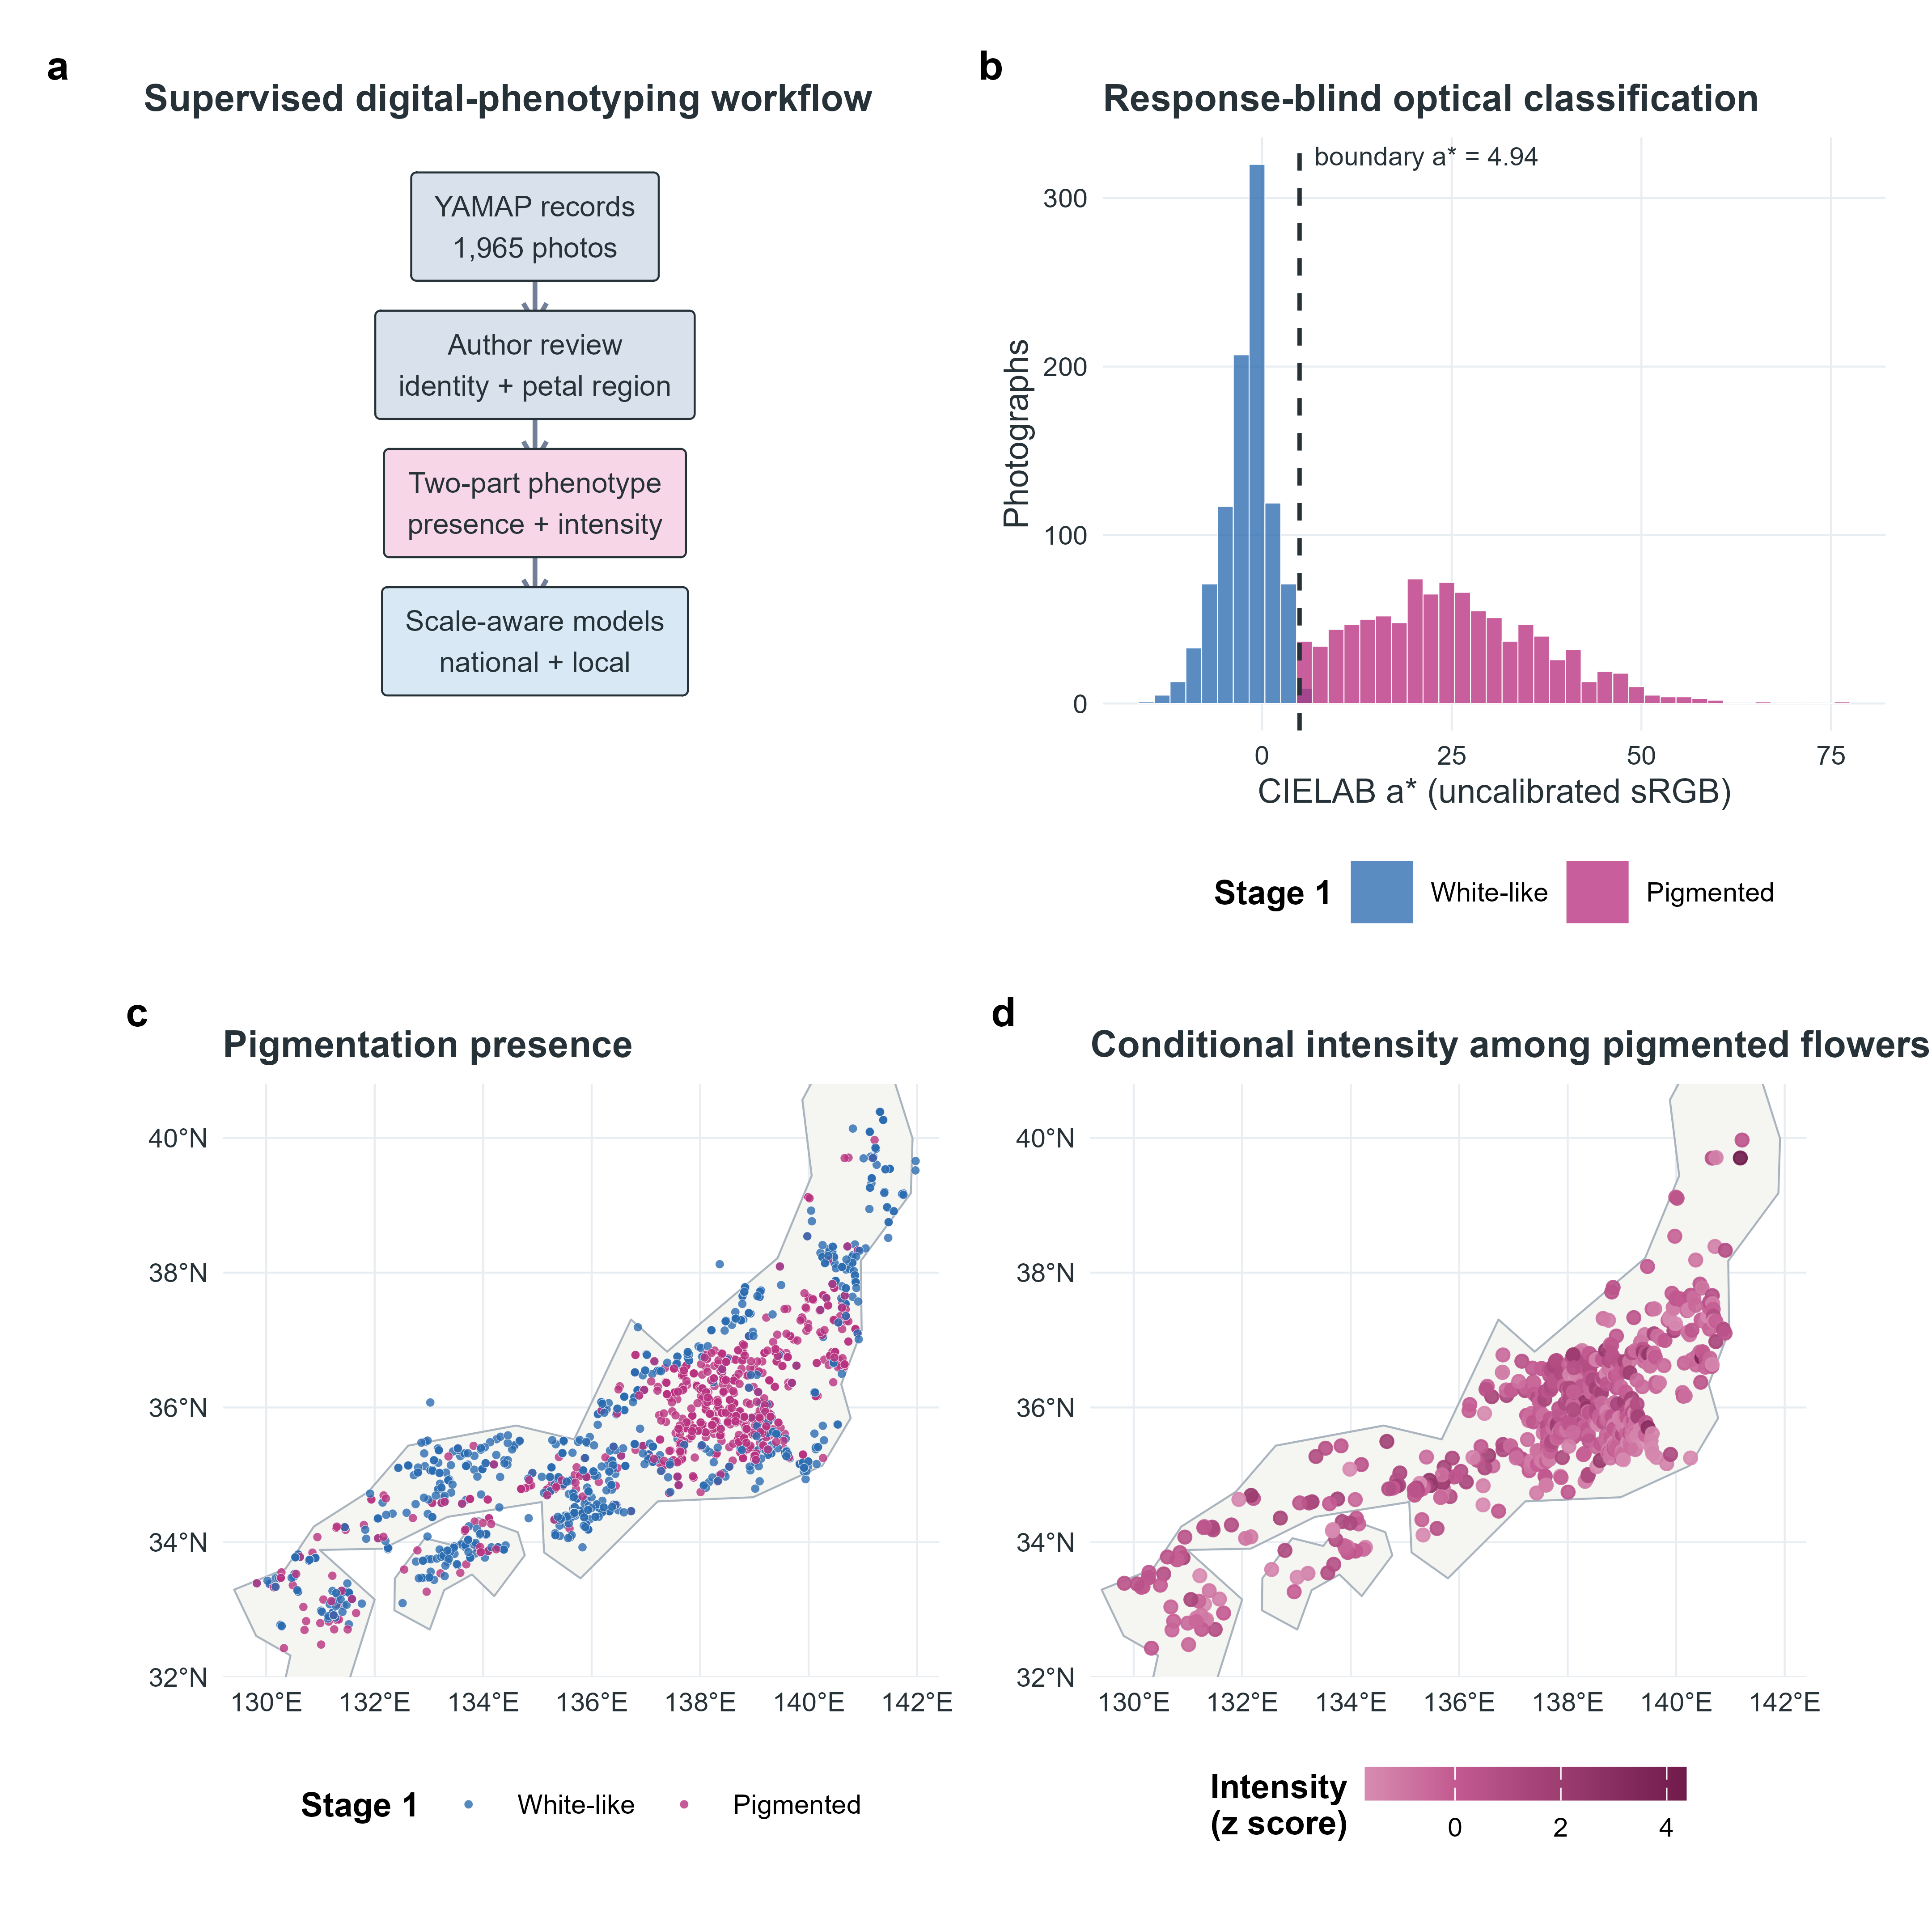
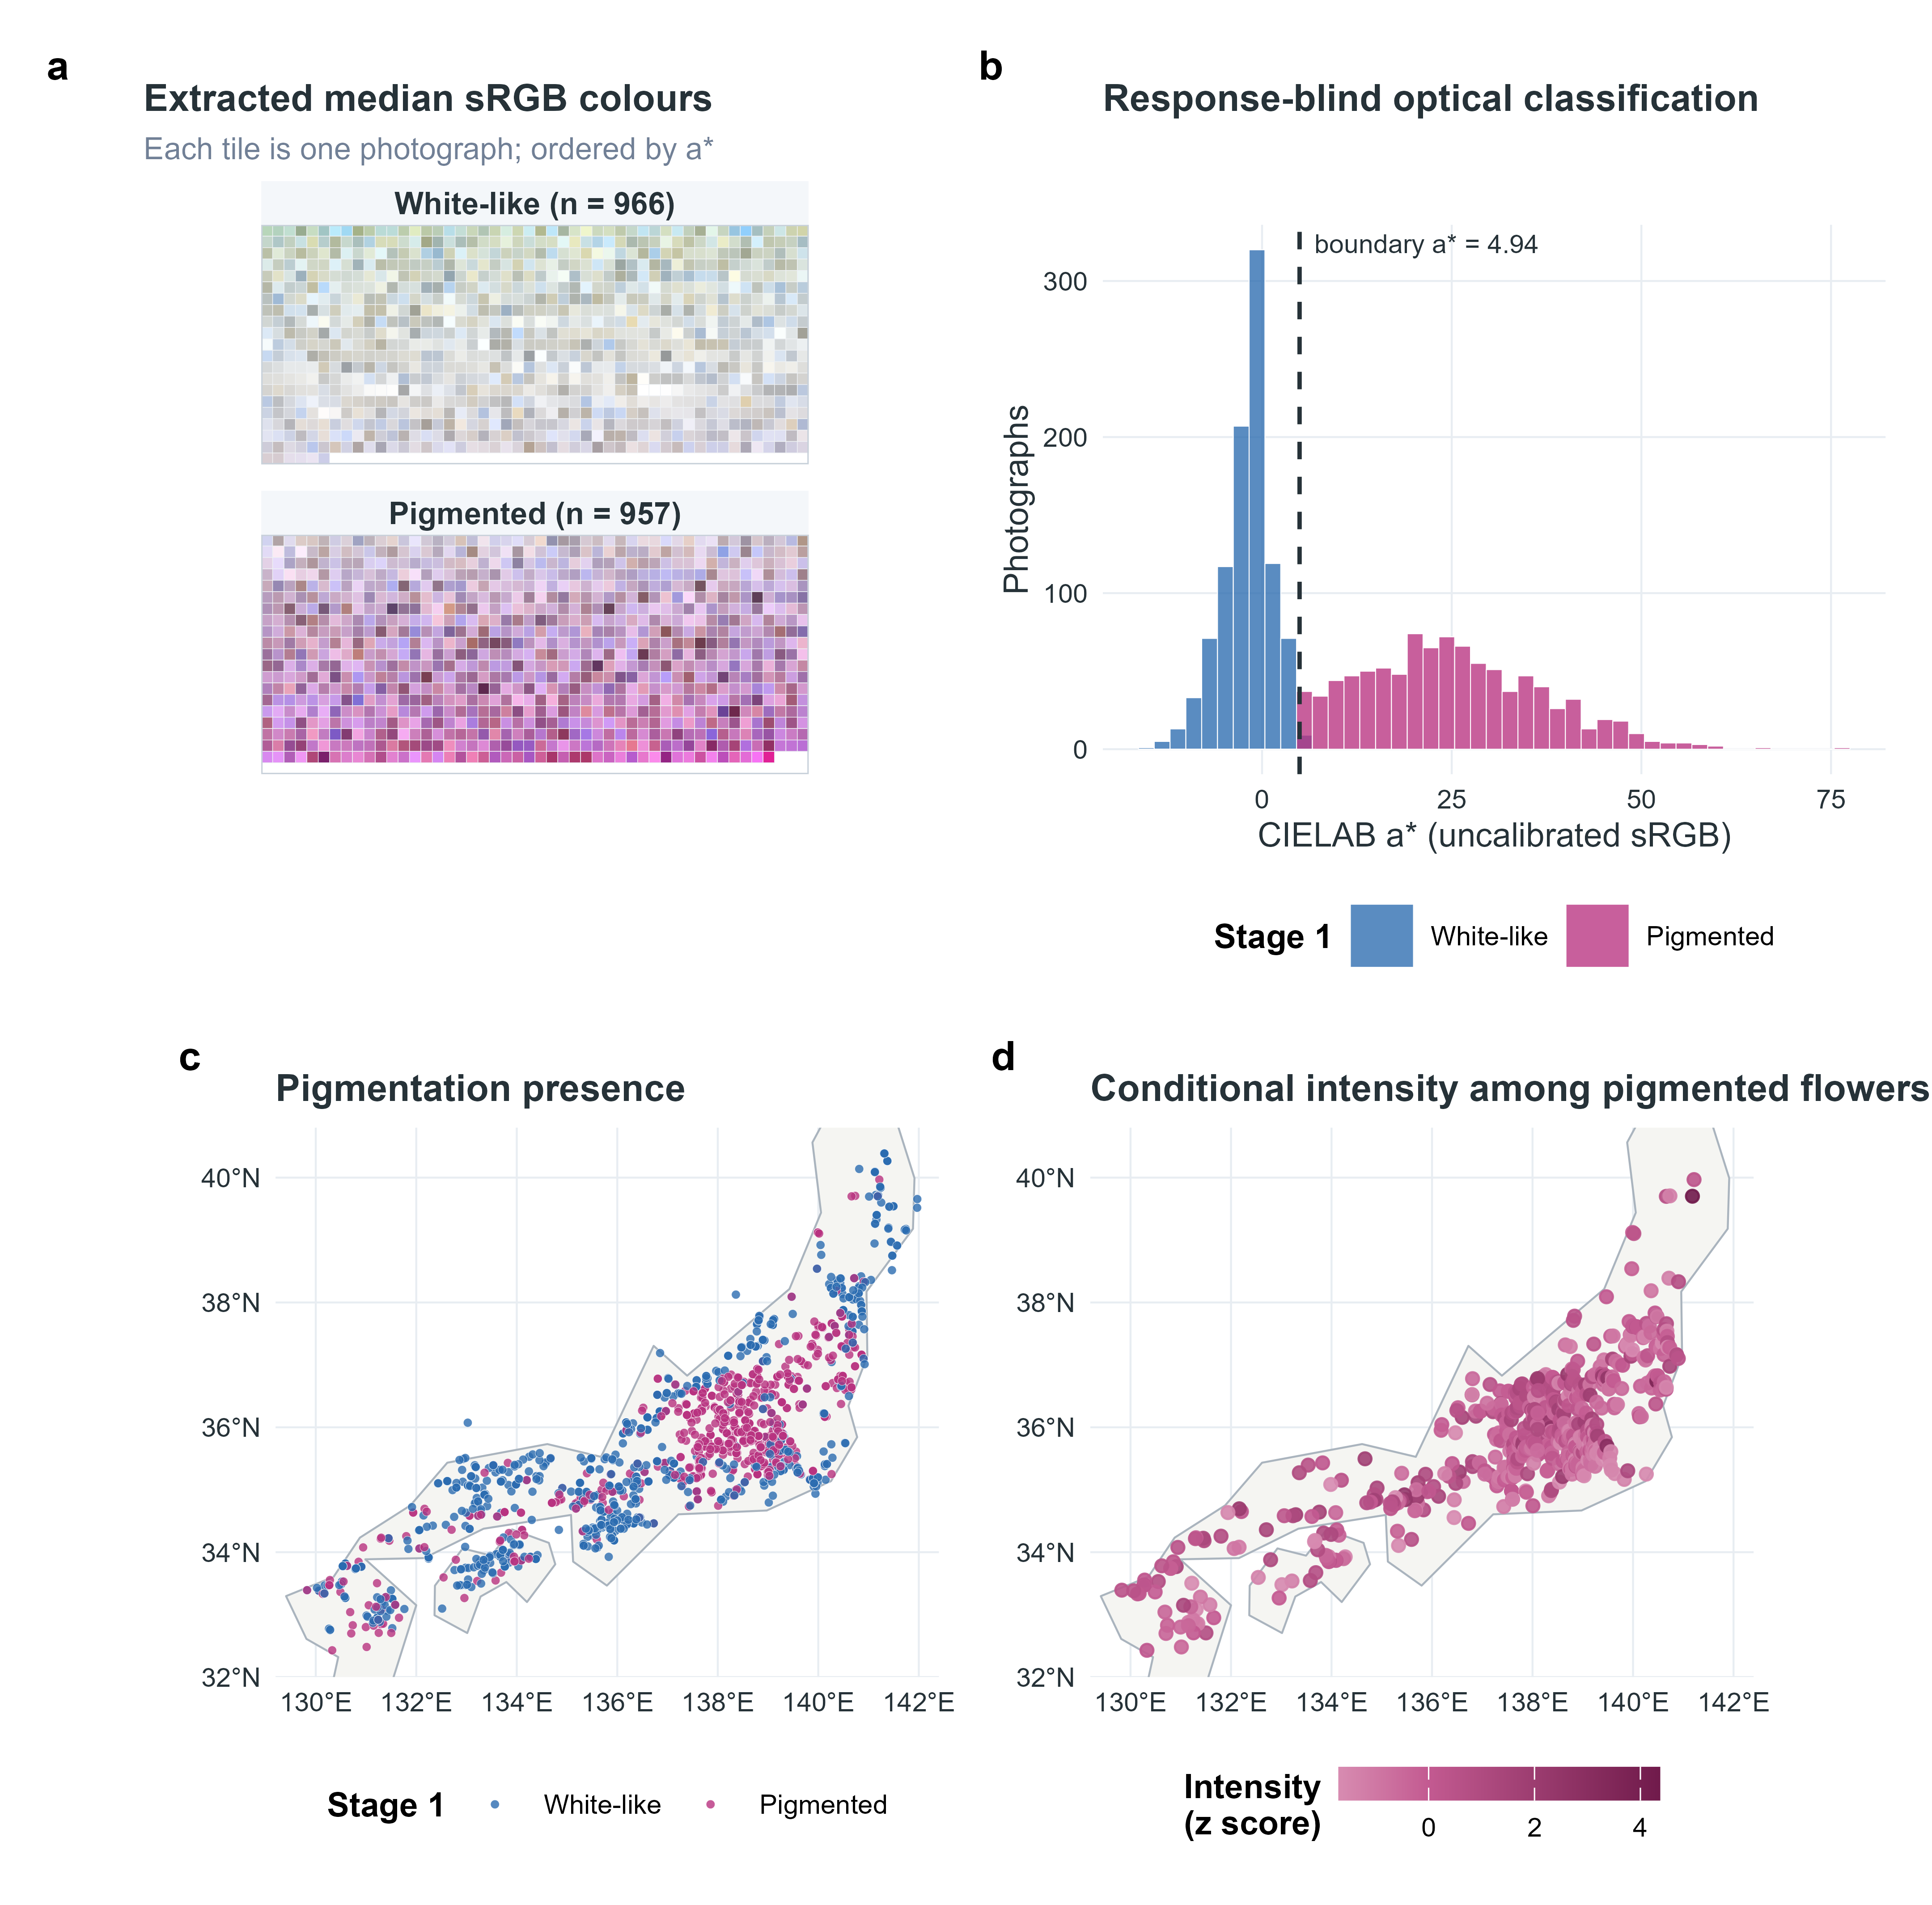
Show extracted RGB colours in Figure 1

diff --git a/scripts/build_manuscript_docx.py b/scripts/build_manuscript_docx.py
@@ -30,9 +30,10 @@ FIGURE_FILES = {
 }
 FIGURE_ALT_TEXT = {
     1: (
-        "Four-panel figure showing the supervised YAMAP photograph workflow, "
-        "the CIELAB a-star mixture boundary, national white-like and pigmented "
-        "records, and pigmented-only conditional intensity."
+        "Four-panel figure showing every observation as an extracted median "
+        "sRGB colour swatch, the CIELAB a-star mixture boundary, national "
+        "white-like and pigmented records, and pigmented-only conditional "
+        "intensity."
     ),
     2: (
         "Four-panel figure showing environmental posterior coefficients, "

diff --git a/manuscript/ecology-and-evolution-manuscript.md b/manuscript/ecology-and-evolution-manuscript.md
@@ -879,13 +879,16 @@ https://help.yamap.com/hc/ja/articles/900000911666
 
 ## Figure legends
 
-**Figure 1. Supervised YAMAP-to-phenotype workflow and the two-part flower-colour
-response.** (a) YAMAP activity record, author taxon and petal-region review,
-deterministic colour extraction, and spatial analysis stages. (b) Distribution
-of CIELAB a* with the response-blind mixture boundary at 4.9445. (c) National
-locations of white-like and pigmented observations. (d) Conditional intensity
-among pigmented flowers. Colour is uncalibrated human-visible sRGB, not
-anthocyanin concentration or *Bombus* colour contrast.
+**Figure 1. Observation-level extracted colours and the two-part flower-colour
+response.** (a) Every final observation represented by its extracted
+channel-wise median sRGB colour from the author-confirmed petal region,
+separated into white-like and pigmented classes and ordered by a* from left to
+right and then top to bottom.
+(b) Distribution of CIELAB a* with the response-blind mixture boundary at
+4.9445. (c) National locations of white-like and pigmented observations.
+(d) Conditional intensity among pigmented flowers. Displayed colours are
+uncalibrated human-visible sRGB, not anthocyanin concentration or *Bombus*
+colour contrast.
 
 **Figure 2. National environmental and continuous spatial structure of the two
 flower-colour components.** (a) Posterior environmental coefficients with 95%

diff --git a/manuscript/figure-map.md b/manuscript/figure-map.md
@@ -8,12 +8,12 @@ are compared.
 
 ## Figure 1 — Two-part digital phenotype
 
-- **Reader question:** How were YAMAP photographs converted into the two
-  response stages, and where were those stages observed?
-- **Panels:** supervised workflow; CIELAB a* distribution and mixture boundary;
-  national white-like/pigmented observations; pigmented-only conditional
-  intensity.
-- **Sources:** `analysis_data_pigmentation_hurdle.csv`,
+- **Reader question:** What extracted display colours underlie the two response
+  stages, and where were those stages observed?
+- **Panels:** observation-level swatch mosaic filled with the extracted median
+  sRGB value; CIELAB a* distribution and mixture boundary; national
+  white-like/pigmented observations; pigmented-only conditional intensity.
+- **Sources:** `Data_S1.csv`, `analysis_data_pigmentation_hurdle.csv`,
   `multiscale_hotspot_cells_1km.csv`, and
   `pigmentation_mixture_components.csv`.
 - **Claim ceiling:** human-visible colour extracted from uncalibrated sRGB